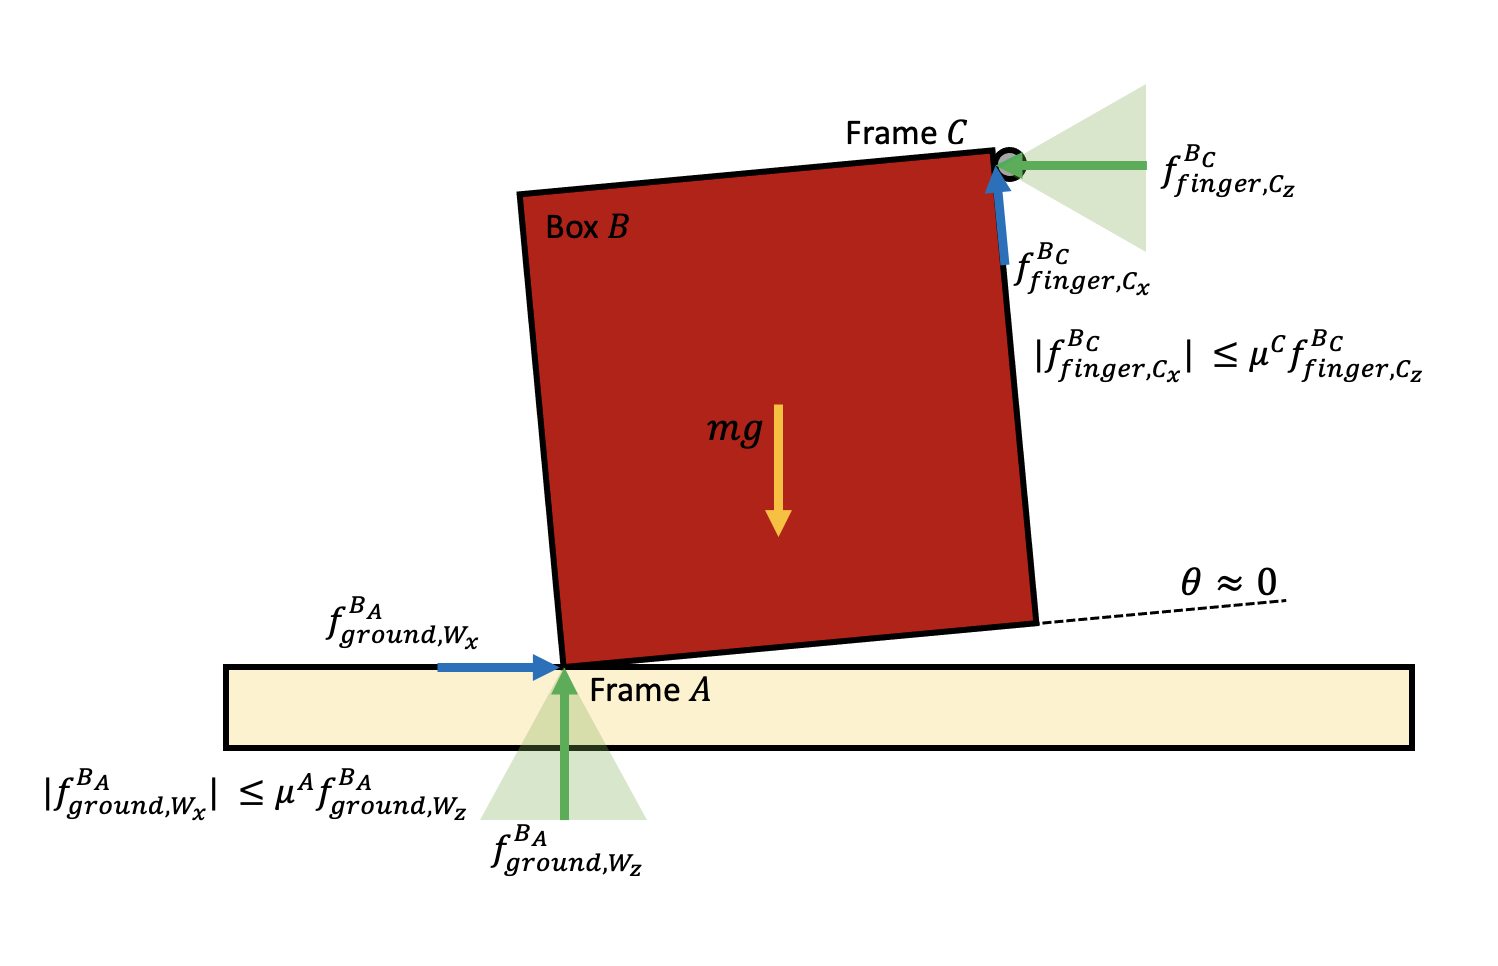
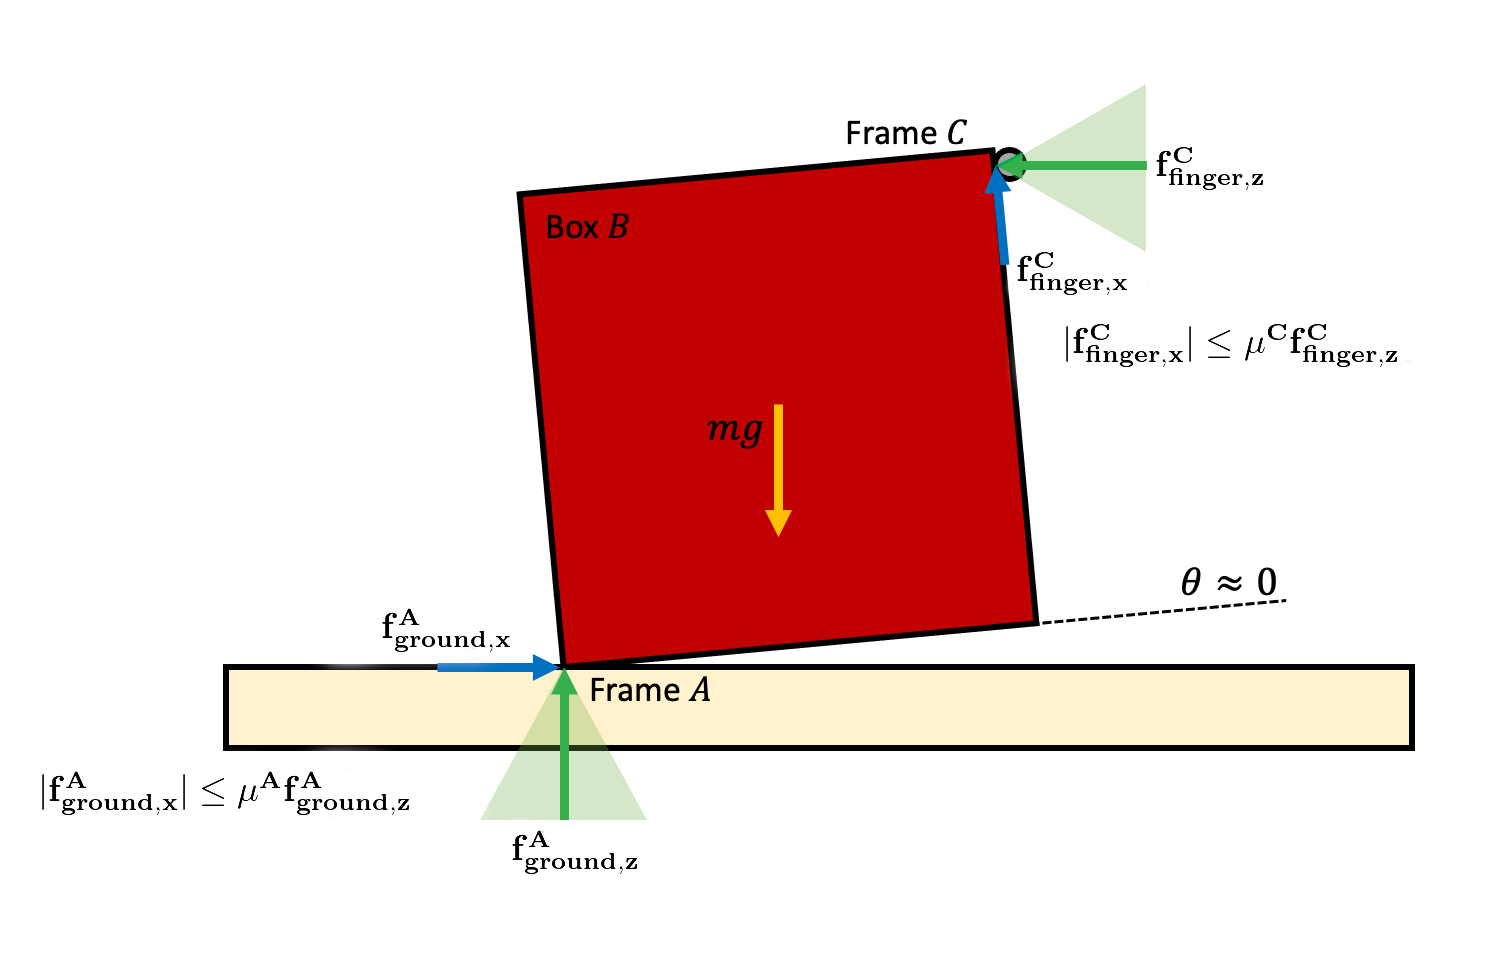
Problem Set 7 Fixes (#372)
* reduce annotations

* simplify notation

* move pivot image to correct location

* clarify problem

* add constants for gains

* reduce number of points for question given constants

* reviewed changes

* fix point on autograder

---------

Changed region(s): [[0.215, 0.1553, 0.9519, 0.8385], [0.0307, 0.7453, 0.3071, 0.8385], [0.3071, 0.8385, 0.4299, 0.9006]]

diff --git a/book/force.html b/book/force.html
@@ -1091,21 +1091,24 @@ href="https://www.youtube.com/channel/UChfUOAhz7ynELF-s_1LPpWg">Lecture videos a
 
 
       <ol type="a">
-        <li> If we do not push hard enough (i.e. $f^{B_C}_{finger,C_z}$ is too
+        <li> If we do not push hard enough (i.e. $f^{C}_{finger,z}$ is too
         small), then we will not be able to create enough friction
-        ($f^{B_C}_{finger,C_x}$) to counteract gravity. By summing the torques
-        around the pivot point $A$ to obtain $\tau^{B_A}_{\text{total}, W_y}$,
+        ($f^{C}_{finger,x}$) to counteract gravity. By summing the torques
+        around the pivot point $A$ to obtain $\tau^{A}_{\text{total}, y}$,
         derive a lower bound for the required normal force
-        $f^{B_C}_{finger,C_z}$, as a function of $m,g,$ and $\mu^C$. You may
+        $f^{C}_{finger,z}$, as a function of $m,g,$ and $\mu^C$. You may
         assume the box is square and that the moment arm of gravity is half the
         moment arm on C.
         </li>
-        <li> If we push too hard (i.e. $f^{B_C}_{finger,C_z}$ is too big), then
-        the pivot point will slide to the left. By balancing forces along the
-        horizontal axis, derive an upper bound for the required normal force
-        $f^{B_C}_{finger,C_z}$, as a function of $m,g,$ and $\mu^A$, by
-        assuming $\mu^A < 1$ and that we have achieved a positive $\tau^{B_A}_{\text{total},W_y}.$ (HINT: It will be necessary to use the torque
-        lower bound from part (a).) </li>
+        <li> If we push too hard (i.e. $f^{C}_{finger,z}$ is too big), then
+        the pivot point will slide to the left. First, balance forces along the 
+        horizontal axis to derive an upper bound for $f^{C}_{finger, z}$.
+        Then, balance forces along the y-axis to obtain an equation with $f^{C}_{finger,z}$.
+        Finally, combine the relations found from balancing forces in the 
+        horizontal and vertical directions with  the torque lower bound from part (a) 
+        to finish deriving the upper bound for the required normal force $f^{C}_{finger,z}$ 
+        as a function of $m,g,$ and $\mu^A$. (Assume $\mu^A < 1$ and that we have achieved 
+        a positive $\tau^{A}_{\text{total},y}.$) </li>
 
         <li> By combining the lower bounds and upper bounds from the previous problems, derive a relation for $\mu^A,\mu^C$ that must hold in order for this motion to be possible. If $\mu^A\approx 0.25$ (wood-metal), how high does $\mu^C$ have to be in order for the motion to be feasible? What if $\mu^A=1$ (concrete-rubber)?
         </li>

diff --git a/manipulation/exercises/force/test_hybrid.py b/manipulation/exercises/force/test_hybrid.py
@@ -10,7 +10,7 @@ class TestHybrid(unittest.TestCase):
         super().__init__(test_name)
         self.notebook_locals = notebook_locals
 
-    @weight(4)
+    @weight(2)
     @timeout_decorator.timeout(30.0)
     def test_antipodal_points(self):
         """Test compute_ctrl"""
